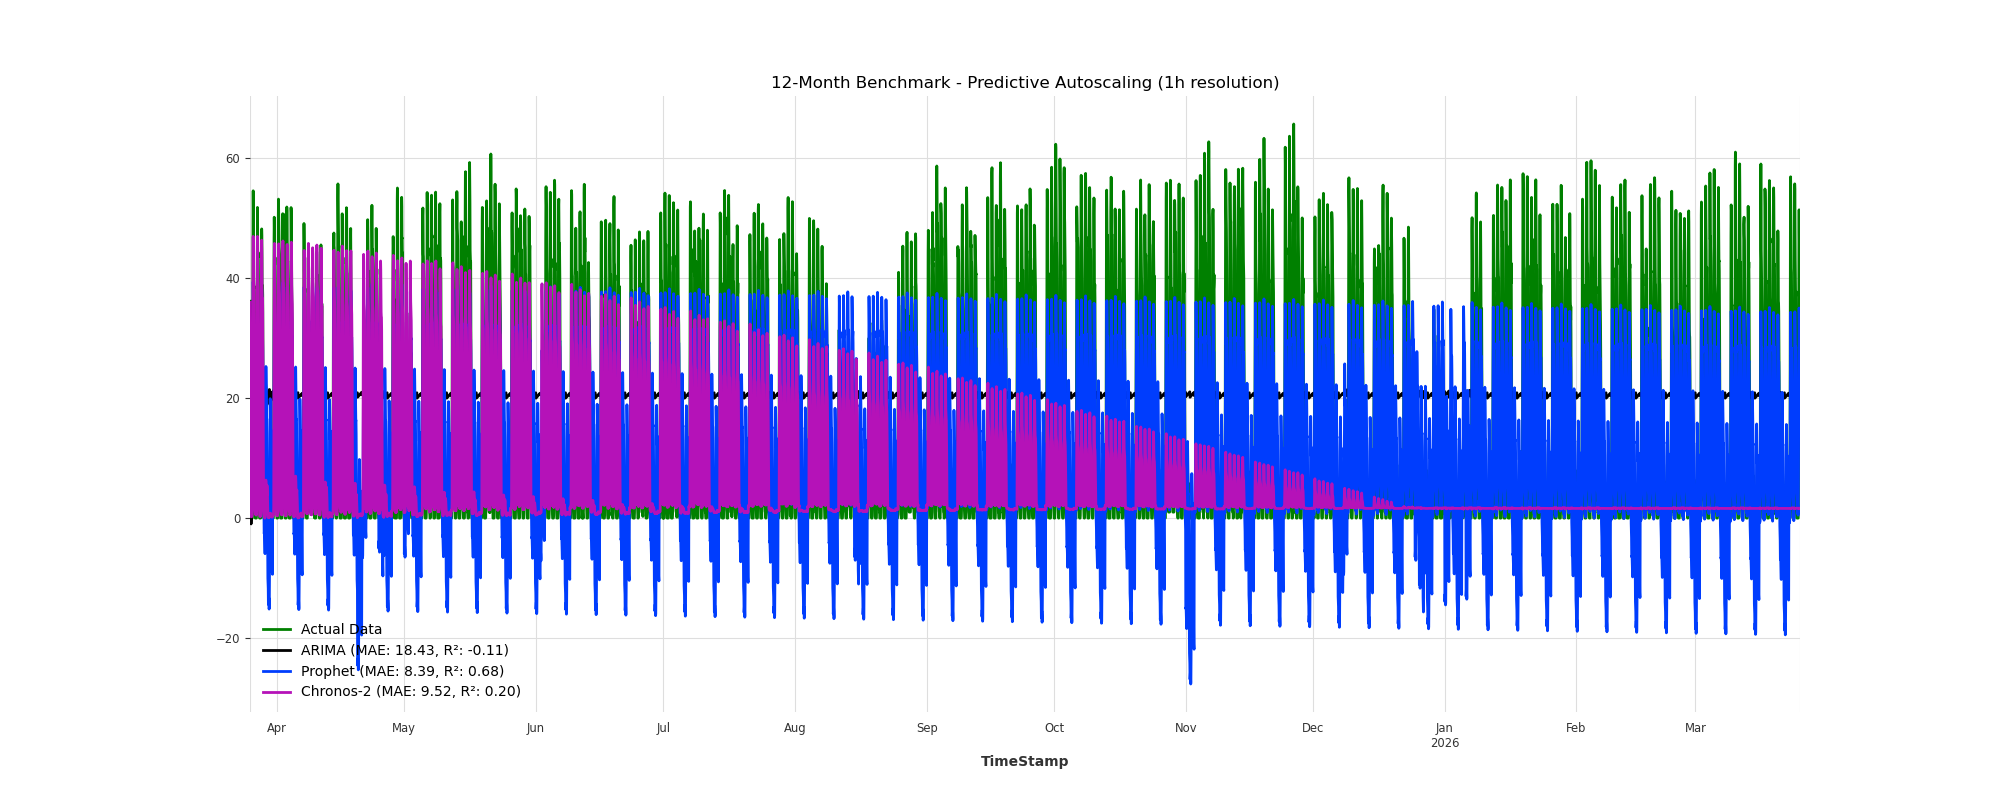
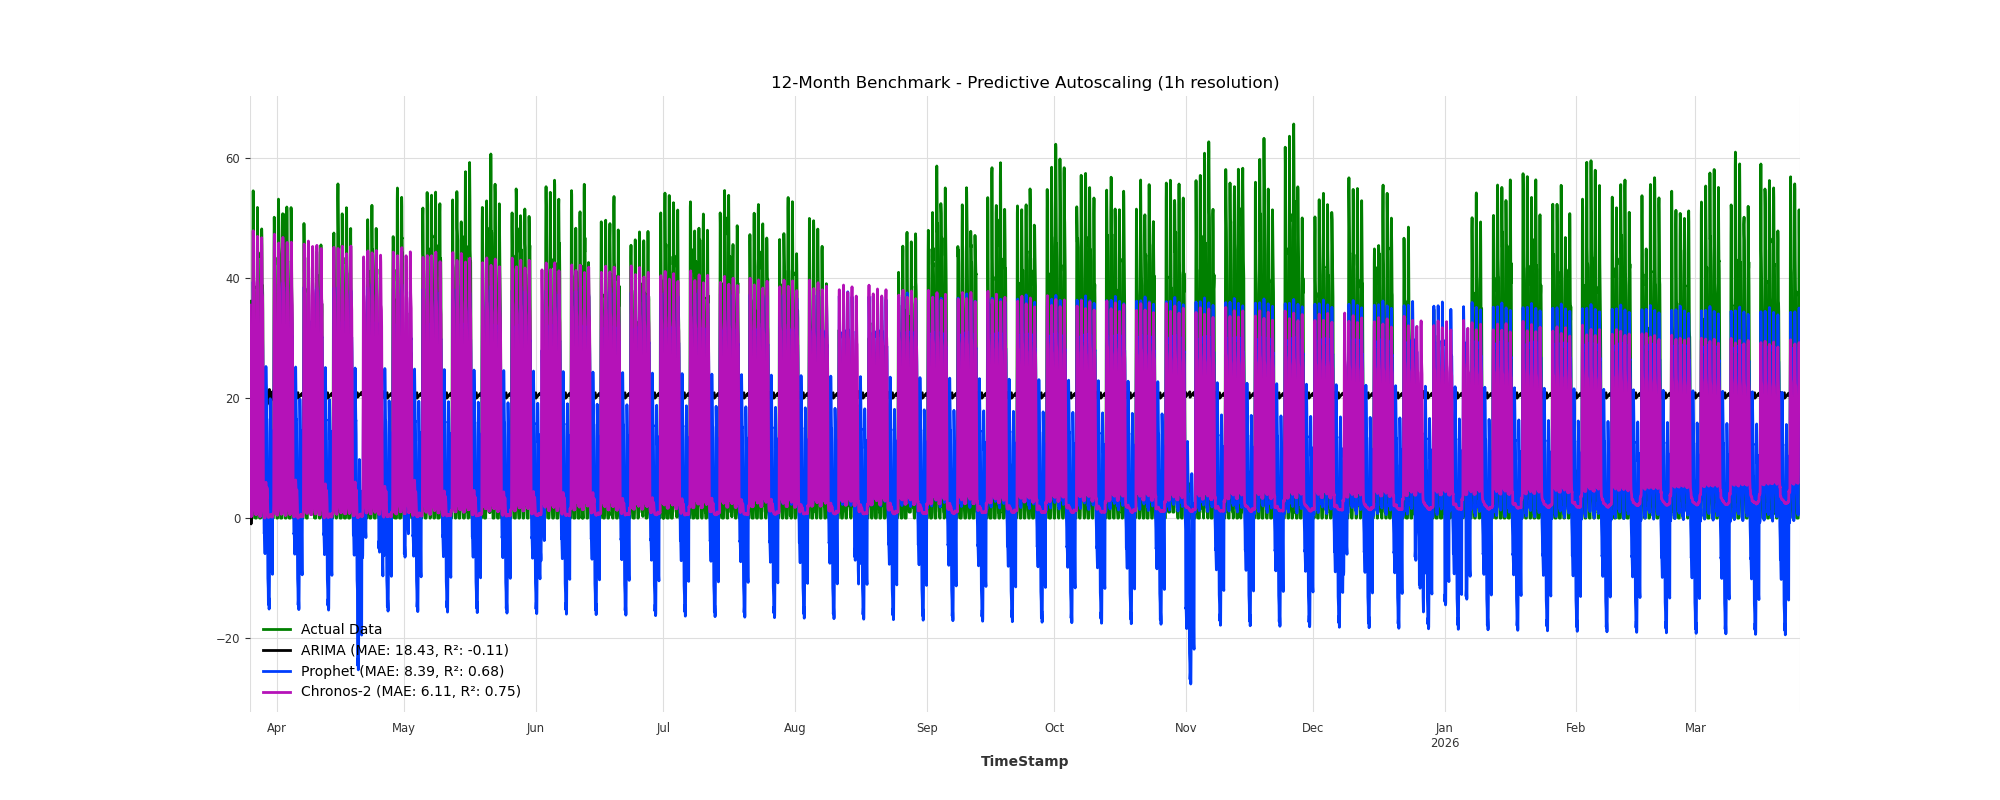
feat: implement Darts-based hyperparameters analysis

Changed region(s): [[0.186, 0.3125, 0.899, 0.6562]]

diff --git a/src/darts_hyperparams.py b/src/darts_hyperparams.py
@@ -1,0 +1,94 @@
+import pandas as pd
+import numpy as np
+import os
+import holidays
+
+from darts import TimeSeries, set_option
+from darts.models import Prophet, ARIMA
+from darts.metrics import mae
+from darts.utils.missing_values import fill_missing_values
+
+def run_hyperparameter_search():
+    base_dir = os.path.dirname(os.path.abspath(__file__))
+    data_path = os.path.join(base_dir, '..', 'datasets', 'Dati_processed.csv')
+    
+    print("--- 1. Data Loading and Preparation ---")
+    df = pd.read_csv(data_path)
+    df['TimeStamp'] = pd.to_datetime(df['TimeStamp'])
+    
+    # 1h interval data
+    df_resampled = df
+    
+    # Italian Holidays
+    it_holidays = holidays.Italy()
+    df_resampled['is_holiday'] = df_resampled['TimeStamp'].apply(lambda x: 1 if x in it_holidays else 0)
+
+    target_col = 'InUseCapacity'
+    future_cols = ['hour', 'day_of_week', 'is_holiday']
+    past_cols = [col for col in df_resampled.columns if col not in [target_col, 'TimeStamp', 'item_id'] and col not in future_cols]
+
+    # Create TimeSeries objects
+    series = fill_missing_values(TimeSeries.from_dataframe(df_resampled, time_col='TimeStamp', value_cols=target_col))
+    future_cov = fill_missing_values(TimeSeries.from_dataframe(df_resampled, time_col='TimeStamp', value_cols=future_cols))
+    # past_cov = fill_missing_values(TimeSeries.from_dataframe(df_resampled, time_col='TimeStamp', value_cols=past_cols)) # Not needed for ARIMA/Prophet
+
+    # For GridSearch, we use the last 30 days as our cross-validation/evaluation split
+    # to keep the search process reasonably fast while still being representative.
+    prediction_length = 30 * 24 
+    train_series = series[:-prediction_length]
+
+    print(f" Total Series: {len(series)} steps")
+    print(f" Validation Start Point: {len(train_series)} steps")
+
+    # ==========================================
+    # --- 2. ARIMA Gridsearch ---
+    # ==========================================
+    print("\n--- 2. Starting ARIMA Gridsearch ---")
+    parameters_arima = {
+        "p": [1, 2, 3, 5],
+        "d": [0, 1],
+        "q": [0, 1, 2]
+    }
+    
+    print(f" Evaluating ARIMA parameter combinations...")
+    # Darts gridsearch evaluates combinations using a rolling window from the `start` point
+    best_arima, best_params_arima, min_error_arima = ARIMA.gridsearch(
+        parameters=parameters_arima,
+        series=series,
+        start=len(train_series),           # Where validation begins
+        forecast_horizon=24,               # Test 24-hours ahead repetitively
+        metric=mae,
+        n_jobs=-1,                         # Use all available CPU cores for speed
+        verbose=True
+    )
+    print(f"  🏆 Best ARIMA Parameters: {best_params_arima}")
+    print(f"  🏆 Best ARIMA MAE Score: {min_error_arima:.4f}")
+
+    # ==========================================
+    # --- 3. PROPHET Gridsearch ---
+    # ==========================================
+    print("\n--- 3. Starting Prophet Gridsearch ---")
+    parameters_prophet = {
+        "country_holidays": ["IT"],
+        "seasonality_prior_scale": [0.01, 0.1, 1.0, 10.0],
+        "changepoint_prior_scale": [0.001, 0.01, 0.1, 0.5]
+    }
+
+    print(f" Evaluating Prophet parameter combinations...")
+    best_prophet, best_params_prophet, min_error_prophet = Prophet.gridsearch(
+        parameters=parameters_prophet,
+        series=series,
+        future_covariates=future_cov,      # Only passing future_cov since Prophet supports it
+        start=len(train_series),
+        forecast_horizon=24,
+        metric=mae,
+        n_jobs=-1,
+        verbose=True
+    )
+    print(f"  🏆 Best Prophet Parameters: {best_params_prophet}")
+    print(f"  🏆 Best Prophet MAE Score: {min_error_prophet:.4f}")
+
+    print("\n🎉 Hyperparameter search finished! Update your models in the main scripts with these parameters.")
+
+if __name__ == "__main__":
+    run_hyperparameter_search()

diff --git a/src/darts_12months.py b/src/darts_12months.py
@@ -61,11 +61,10 @@ def run_native_darts_tournament_12m():
 
     # --- 4. Models Arena ---
     # Chronos-2 requires: input_chunk_length + output_chunk_length <= len(train_series)
-    # Distribute available budget: 40% input (context), 60% output (direct forecast)
-    # Auto-regression handles the remaining prediction horizon beyond output_chunk_length
+    # We maximize output_chunk_length (up to 1024 limit) to minimize auto-regressive error compounding
     available_budget = len(train_series) - 1
-    chronos_output_len = min(512, int(available_budget * 0.6))
-    chronos_input_len = min(512, available_budget - chronos_output_len)
+    chronos_output_len = min(1024, int(available_budget * 0.6))
+    chronos_input_len = min(1024, available_budget - chronos_output_len)
     
     print(f"\n Chronos-2 Config: input_chunk={chronos_input_len}, output_chunk={chronos_output_len}")
     print(f" Auto-regressive steps needed: {max(0, prediction_length - chronos_output_len)}")

diff --git a/src/darts_90days.py b/src/darts_90days.py
@@ -55,8 +55,8 @@ def run_native_darts_tournament():
         "Prophet": Prophet(country_holidays='IT'),
         "Chronos-2": Chronos2Model(
             hub_model_name="amazon/chronos-2",
-            input_chunk_length=512, 
-            output_chunk_length=512 
+            input_chunk_length=1024, 
+            output_chunk_length=1024
         ) 
     }
 
